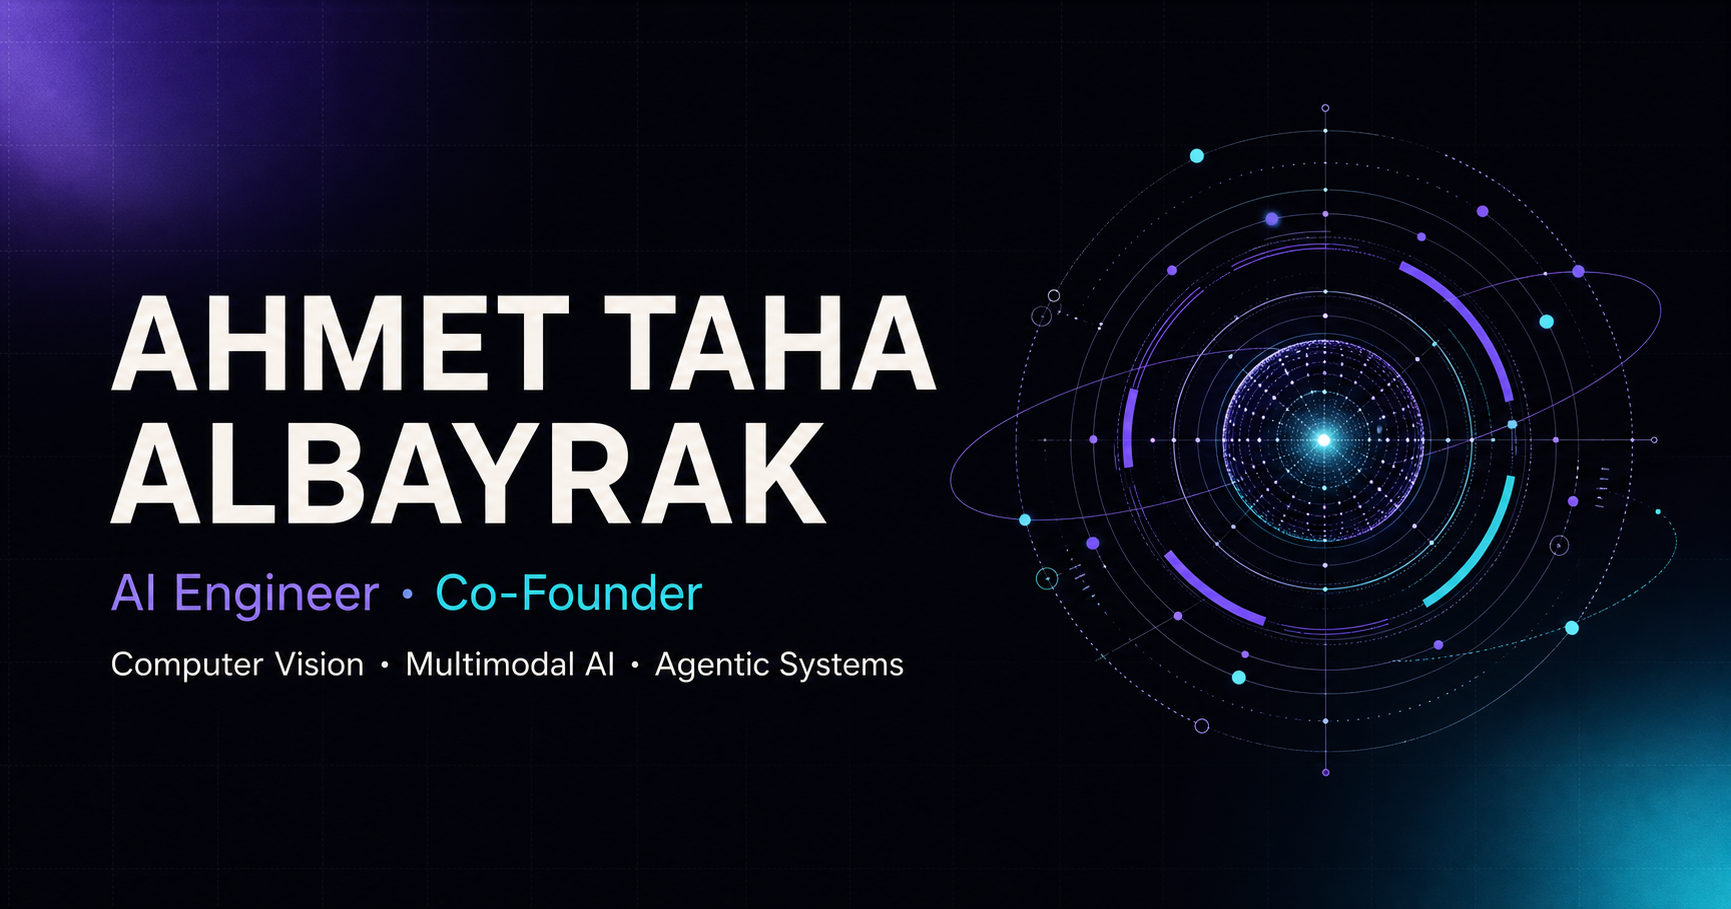
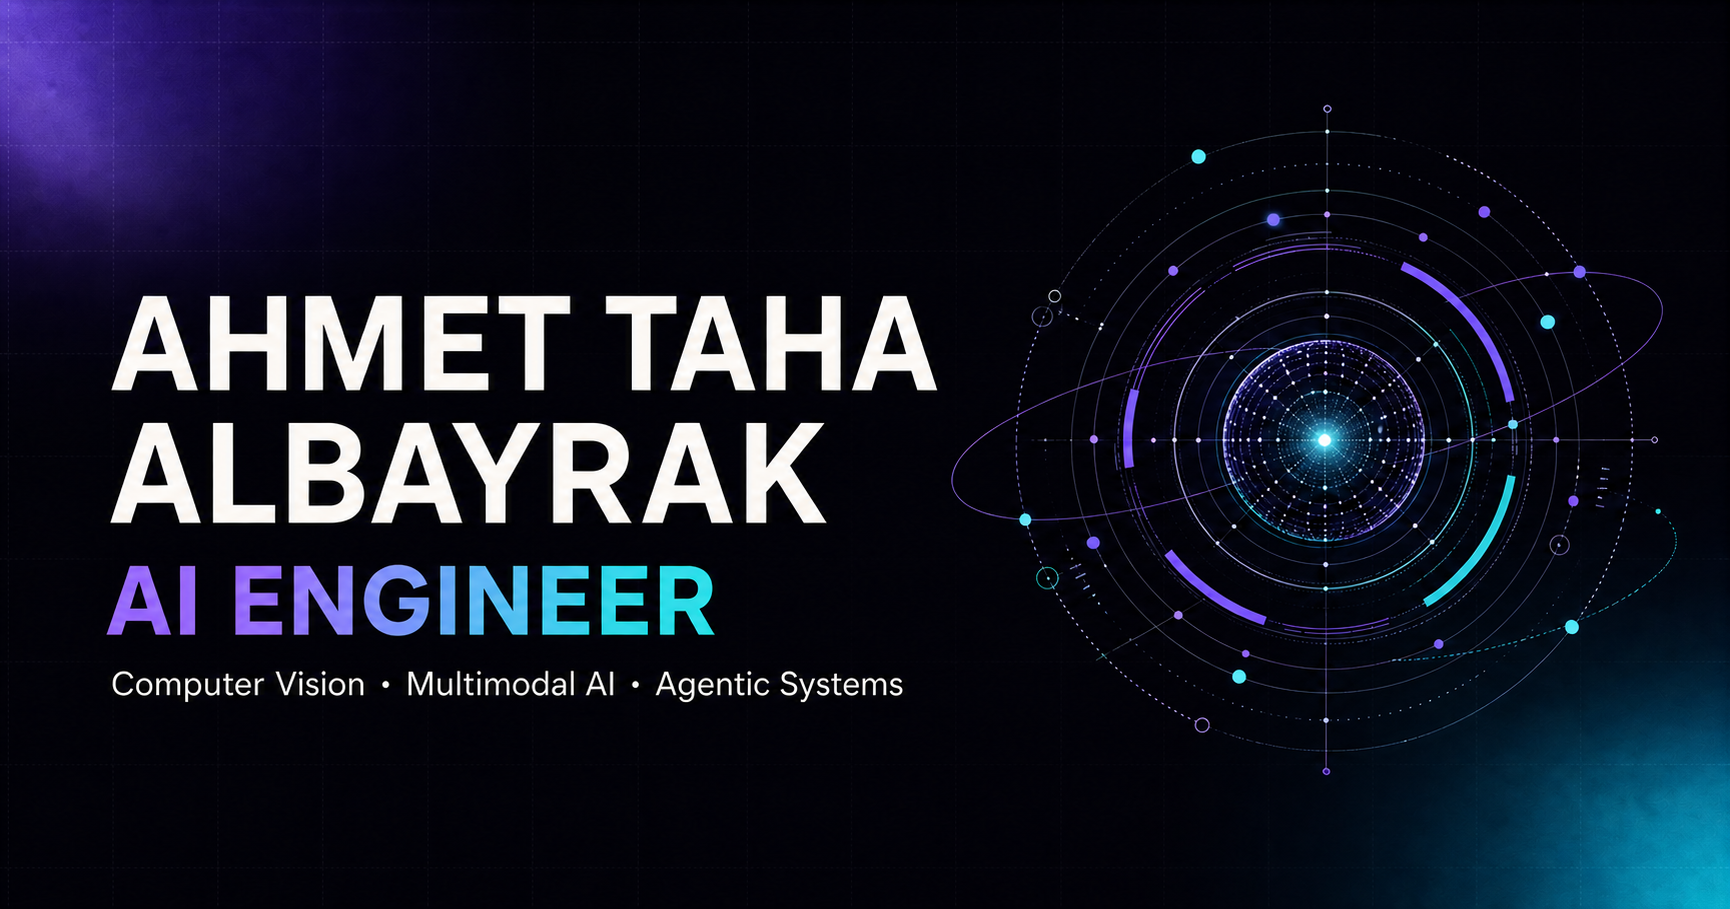
Refine AI engineer positioning

diff --git a/app/content.ts b/app/content.ts
@@ -19,6 +19,7 @@ export type PortfolioContent = {
     present: string;
   };
   hero: {
+    role: string;
     eyebrow: string;
     titleLead: string;
     titleMiddle: string;
@@ -115,7 +116,8 @@ const english: PortfolioContent = {
     present: "Present",
   },
   hero: {
-    eyebrow: "AI Engineer · Co-Founder · Ankara",
+    role: "AI ENGINEER",
+    eyebrow: "Applied AI · Ankara",
     titleLead: "I build AI that",
     titleMiddle: "sees. Understands.",
     titleAccent: "Acts.",
@@ -196,10 +198,10 @@ const english: PortfolioContent = {
       "The strongest AI work is not only accurate. It is fast, scalable and useful under real constraints.",
     items: [
       {
-        metric: "60%",
-        title: "Faster model deployment",
+        metric: "30% / 40%",
+        title: "More accurate, leaner models",
         copy:
-          "Introduced end-to-end MLOps practices while increasing model iteration speed by 40%.",
+          "Designed multi-task 2D/3D pose and detection models with 30% higher accuracy and 40% lower computational cost.",
       },
       {
         metric: "30 FPS",
@@ -219,15 +221,15 @@ const english: PortfolioContent = {
     index: "03 — EXPERIENCE",
     title: "From applied research to AI leadership.",
     intro:
-      "Eight years across research institutes, product teams and company building — always focused on turning advanced AI into dependable systems.",
+      "Eight years across research institutes and product teams — always focused on turning advanced AI into dependable systems.",
     roles: [
       {
         company: "NuveMind Information Technologies",
-        role: "AI Engineer, Co-Founder",
+        role: "AI Engineer",
         location: "Ankara, Türkiye",
         period: "Mar 2025 — Present",
         summary:
-          "Leading the architecture and commercialization of multimodal and agentic AI products.",
+          "Leading the architecture and productionization of multimodal and agentic AI products.",
         bullets: [
           "Designed end-to-end multimodal generative AI solutions spanning advanced image processing and natural-language technologies.",
           "Architected autonomous agent systems that execute complex workflows through external tools and APIs.",
@@ -242,9 +244,9 @@ const english: PortfolioContent = {
         summary:
           "Built and optimized production machine-learning systems across MLOps, edge inference and perception.",
         bullets: [
-          "Reduced deployment time by 60% and increased iteration speed by 40% through comprehensive MLOps practices.",
+          "Designed multi-task architectures for 2D/3D pose estimation and object detection, improving accuracy by 30% while reducing computational cost by 40%.",
           "Optimized real-time edge algorithms to 30 FPS, a 3× performance improvement.",
-          "Developed multi-task pose and detection models with 30% higher accuracy and 40% lower computational cost.",
+          "Integrated IR-camera data into machine-learning pipelines, expanding low-light data collection by 50%.",
         ],
       },
       {
@@ -363,7 +365,8 @@ const turkish: PortfolioContent = {
     present: "Günümüz",
   },
   hero: {
-    eyebrow: "Yapay Zekâ Mühendisi · Kurucu Ortak · Ankara",
+    role: "YAPAY ZEKÂ MÜHENDİSİ",
+    eyebrow: "Uygulamalı AI · Ankara",
     titleLead: "Gören, anlayan",
     titleMiddle: "ve harekete geçen",
     titleAccent: "yapay zekâ.",
@@ -444,10 +447,10 @@ const turkish: PortfolioContent = {
       "En güçlü yapay zekâ yalnızca doğru değildir; gerçek kısıtlar altında hızlı, ölçeklenebilir ve kullanışlıdır.",
     items: [
       {
-        metric: "%60",
-        title: "Daha hızlı model dağıtımı",
+        metric: "%30 / %40",
+        title: "Daha doğru, daha verimli modeller",
         copy:
-          "Uçtan uca MLOps pratikleriyle model iterasyon hızını aynı zamanda %40 artırdım.",
+          "2B/3B poz tahmini ve tespit için doğruluğu %30 artırırken hesaplama maliyetini %40 azaltan çok görevli modeller tasarladım.",
       },
       {
         metric: "30 FPS",
@@ -467,15 +470,15 @@ const turkish: PortfolioContent = {
     index: "03 — DENEYİM",
     title: "Uygulamalı araştırmadan AI liderliğine.",
     intro:
-      "Araştırma enstitüleri, ürün ekipleri ve şirket kurma deneyimi boyunca ileri yapay zekâyı güvenilir sistemlere dönüştürmeye odaklandım.",
+      "Araştırma enstitüleri ve ürün ekiplerindeki sekiz yıllık deneyimim boyunca ileri yapay zekâyı güvenilir sistemlere dönüştürmeye odaklandım.",
     roles: [
       {
         company: "NuveMind Bilgi Teknolojileri",
-        role: "Yapay Zekâ Mühendisi, Kurucu Ortak",
+        role: "Yapay Zekâ Mühendisi",
         location: "Ankara, Türkiye",
         period: "Mar 2025 — Günümüz",
         summary:
-          "Çok modlu ve ajan tabanlı AI ürünlerinin mimarisine ve ticarileştirilmesine liderlik ediyorum.",
+          "Çok modlu ve ajan tabanlı AI ürünlerinin mimarisine ve üretime alınmasına liderlik ediyorum.",
         bullets: [
           "İleri görüntü işleme ve doğal dil teknolojilerini birleştiren uçtan uca çok modlu üretken AI çözümleri tasarladım.",
           "Harici araçlar ve API’lerle karmaşık iş akışları yürüten otonom ajan sistemleri geliştirdim.",
@@ -490,9 +493,9 @@ const turkish: PortfolioContent = {
         summary:
           "MLOps, edge çıkarımı ve algı alanlarında üretim makine öğrenmesi sistemleri geliştirdim ve optimize ettim.",
         bullets: [
-          "Kapsamlı MLOps uygulamalarıyla dağıtım süresini %60 azalttım, iterasyon hızını %40 artırdım.",
+          "2B/3B poz tahmini ve nesne tespiti için doğruluğu %30 artırırken hesaplama maliyetini %40 azaltan çok görevli mimariler geliştirdim.",
           "Gerçek zamanlı edge algoritmalarını 30 FPS seviyesine çıkararak 3 kat performans artışı sağladım.",
-          "Poz tahmini ve tespit için %30 daha doğru, %40 daha düşük hesaplama maliyetli çok görevli modeller geliştirdim.",
+          "IR kamera verisini makine öğrenmesi hatlarına entegre ederek düşük ışık veri toplama kapasitesini %50 artırdım.",
         ],
       },
       {

diff --git a/app/(en)/layout.tsx b/app/(en)/layout.tsx
@@ -6,9 +6,9 @@ const siteUrl = "https://atalbayrak.github.io";
 
 export const metadata: Metadata = {
   metadataBase: new URL(siteUrl),
-  title: "Ahmet Taha Albayrak — AI Engineer & Co-Founder",
+  title: "AI Engineer — Ahmet Taha Albayrak",
   description:
-    "AI Engineer and Co-Founder specializing in computer vision, multimodal generative AI, agentic systems, MLOps and edge inference.",
+    "AI Engineer specializing in computer vision, multimodal generative AI, agentic systems, MLOps and edge inference.",
   alternates: {
     canonical: "/",
     languages: {
@@ -19,7 +19,7 @@ export const metadata: Metadata = {
   openGraph: {
     type: "website",
     url: "/",
-    title: "Ahmet Taha Albayrak — AI Engineer & Co-Founder",
+    title: "AI Engineer — Ahmet Taha Albayrak",
     description:
       "Building production AI across computer vision, multimodal systems and autonomous agents.",
     siteName: "Ahmet Taha Albayrak",
@@ -27,15 +27,15 @@ export const metadata: Metadata = {
     images: [
       {
         url: "/og.png",
-        width: 1707,
-        height: 907,
-        alt: "Ahmet Taha Albayrak — AI Engineer and Co-Founder",
+        width: 1730,
+        height: 909,
+        alt: "Ahmet Taha Albayrak — AI Engineer",
       },
     ],
   },
   twitter: {
     card: "summary_large_image",
-    title: "Ahmet Taha Albayrak — AI Engineer & Co-Founder",
+    title: "AI Engineer — Ahmet Taha Albayrak",
     description:
       "Building production AI across computer vision, multimodal systems and autonomous agents.",
     images: ["/og.png"],

diff --git a/app/portfolio-page.tsx b/app/portfolio-page.tsx
@@ -100,7 +100,8 @@ export function PortfolioPage({ content }: PortfolioPageProps) {
         <div className="hero-copy">
           <div className="eyebrow reveal">
             <span className="live-dot" />
-            {content.hero.eyebrow}
+            <strong className="hero-role">{content.hero.role}</strong>
+            <span>{content.hero.eyebrow}</span>
           </div>
 
           <h1 className="reveal reveal-delay-1">
@@ -352,14 +353,6 @@ export function PortfolioPage({ content }: PortfolioPageProps) {
               {content.background.publicationTitle}
             </span>
             <p className="publication-copy">{content.background.publication}</p>
-            <a
-              className="inline-link"
-              href="https://scholar.google.com/scholar?q=Hyper+Parameter+Optimization+for+Deep+Learning+using+Volunteer+Computing"
-              target="_blank"
-              rel="noreferrer"
-            >
-              Google Scholar <span aria-hidden="true">↗</span>
-            </a>
           </article>
 
           <article className="background-card reveal">

diff --git a/app/(tr)/layout.tsx b/app/(tr)/layout.tsx
@@ -6,7 +6,7 @@ const siteUrl = "https://atalbayrak.github.io";
 
 export const metadata: Metadata = {
   metadataBase: new URL(siteUrl),
-  title: "Ahmet Taha Albayrak — Yapay Zekâ Mühendisi ve Kurucu Ortak",
+  title: "Yapay Zekâ Mühendisi — Ahmet Taha Albayrak",
   description:
     "Bilgisayarlı görü, çok modlu üretken yapay zekâ, ajan sistemleri, MLOps ve edge çıkarımı alanlarında uzman yapay zekâ mühendisi.",
   alternates: {
@@ -27,9 +27,9 @@ export const metadata: Metadata = {
     images: [
       {
         url: "/og.png",
-        width: 1707,
-        height: 907,
-        alt: "Ahmet Taha Albayrak — Yapay Zekâ Mühendisi ve Kurucu Ortak",
+        width: 1730,
+        height: 909,
+        alt: "Ahmet Taha Albayrak — Yapay Zekâ Mühendisi",
       },
     ],
   },

diff --git a/app/globals.css b/app/globals.css
@@ -278,6 +278,13 @@ a {
   backdrop-filter: blur(12px);
 }
 
+.hero-role {
+  color: #6d35ef;
+  font-size: 0.76rem;
+  font-weight: 800;
+  letter-spacing: 0.15em;
+}
+
 .live-dot {
   position: relative;
   width: 0.46rem;
